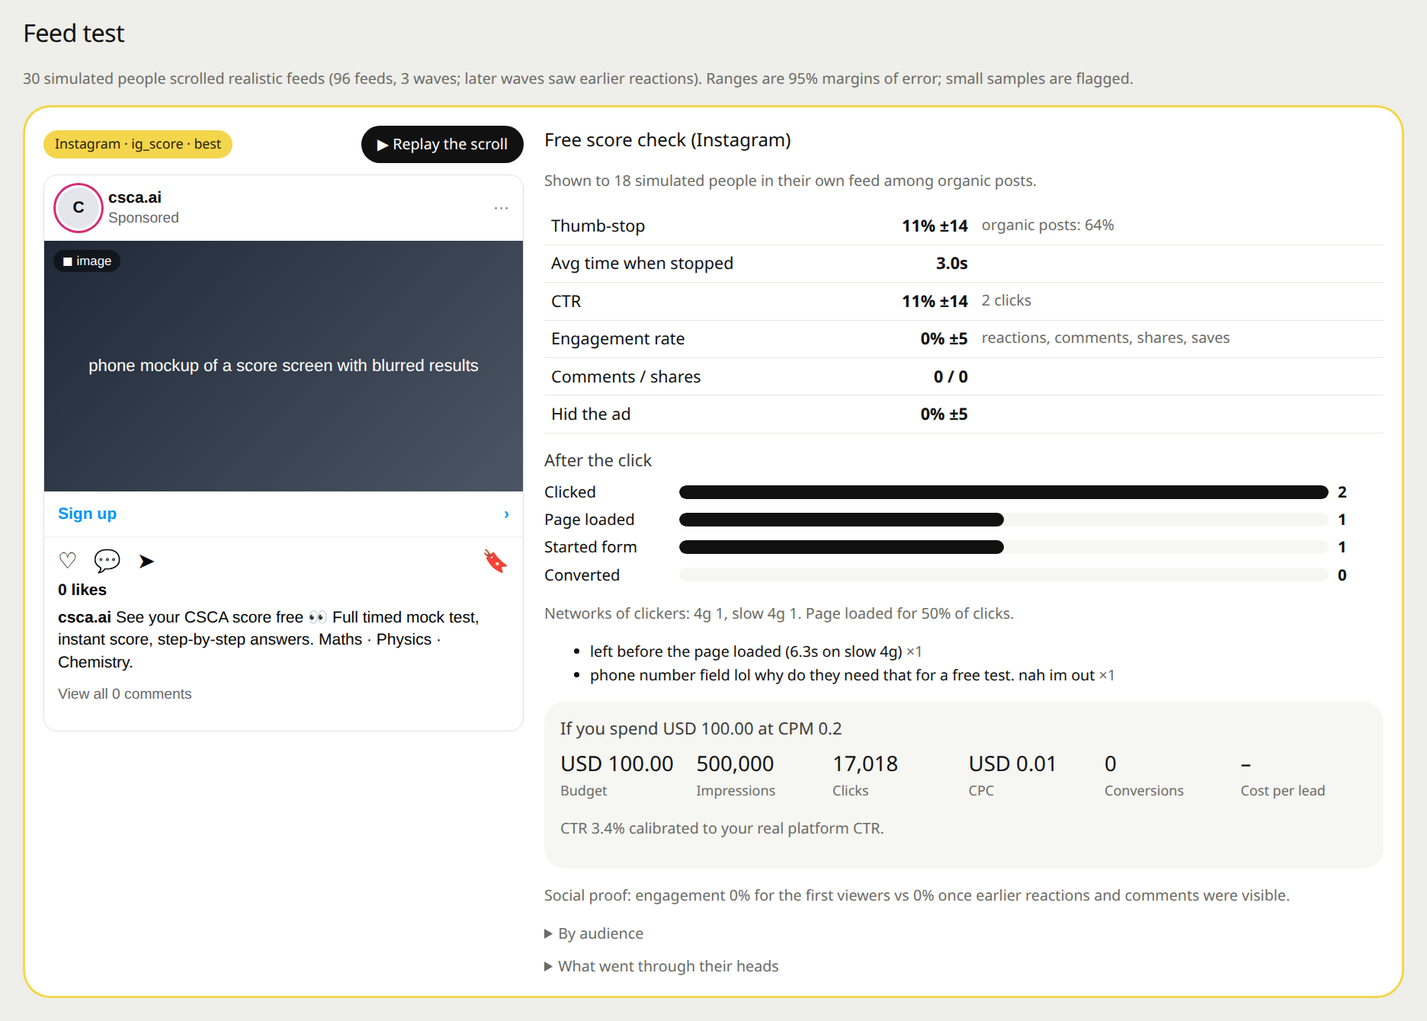
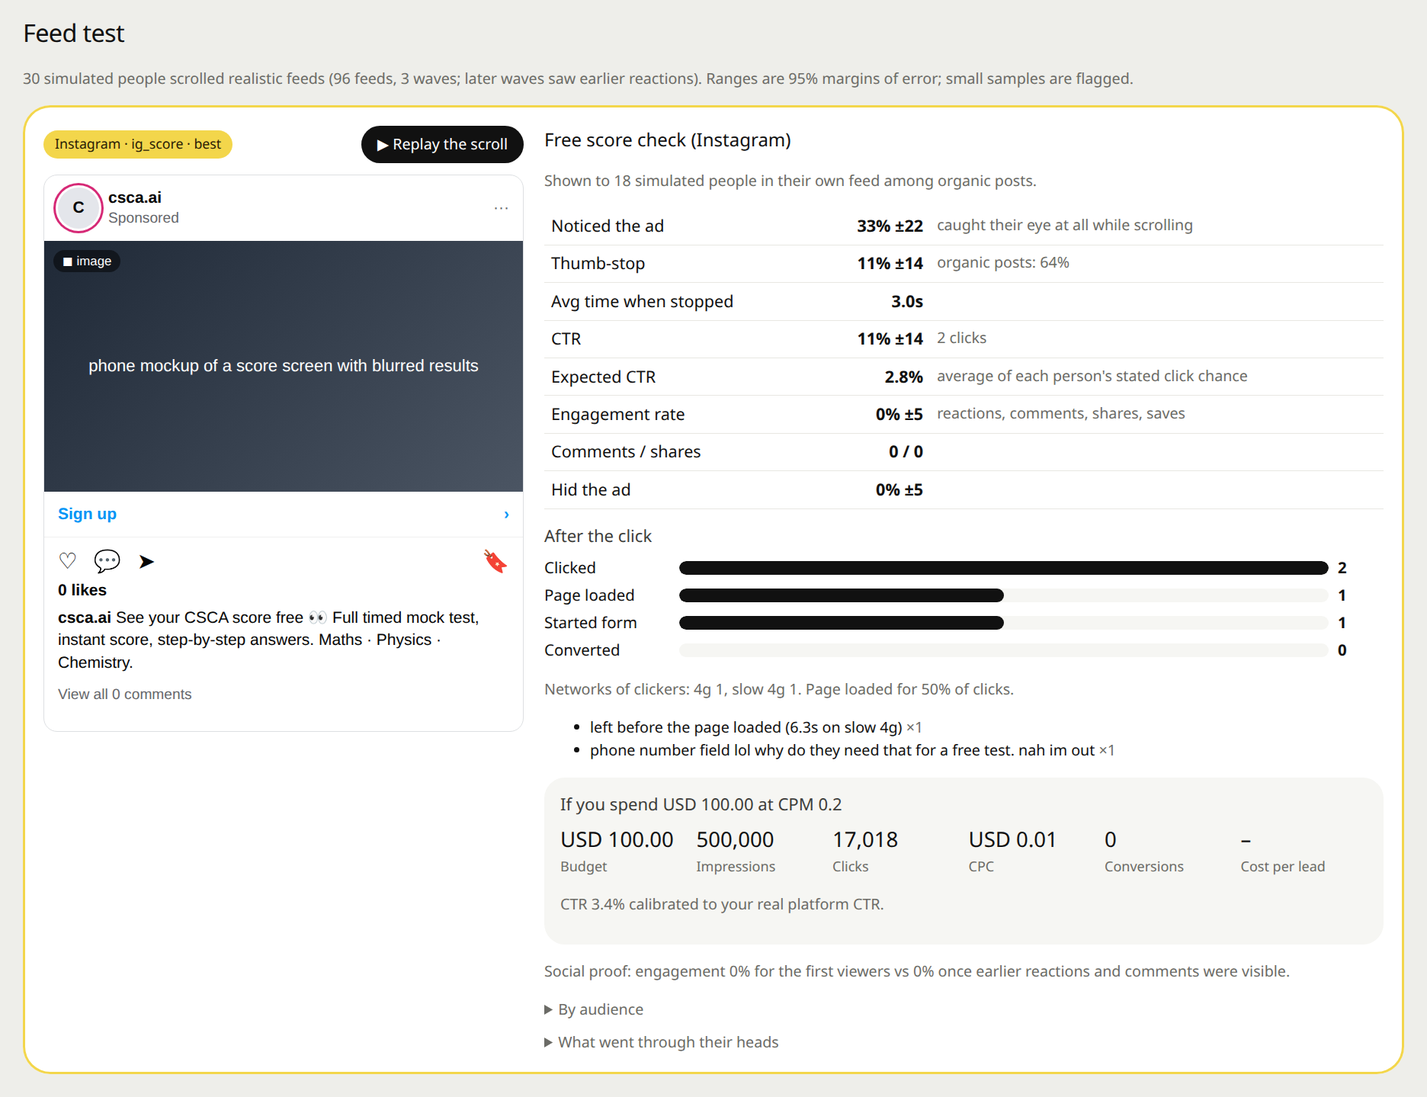
Real run fixes, README screenshots from a real CSCA run
- wait treats 'every platform finished, none running' as done (the process
  stays up for interviews, so runner_status stays 'running')
- analysts: concise output, 4k tokens, retry once on cut-off JSON
- with no firm yes, verdicts rank audiences and messages by maybes and
  reaction and call the split test inconclusive; the survey signal and the
  playbook priority count a maybe as partial interest; best message per
  audience comes from the assigned message in split tests
- decision list layout fix
- README: screenshots from a real run (decision, feed test, playbook,
  audiences, analyst panel, objections, people), all-in-one and MCP docs
- skill: all-in-one section and decision card

diff --git a/backend/claude_cli/marketing.py b/backend/claude_cli/marketing.py
@@ -288,7 +288,11 @@ def _group_stats(rows: List[Dict[str, Any]]) -> Dict[str, Any]:
     promoters = sum(1 for x in rec if x >= 9)
     detractors = sum(1 for x in rec if x <= 6)
     objections = Counter(r.get("objection_type") for r in rows if r.get("objection_type") not in (None, "none"))
-    msgs = Counter(r.get("best_message") for r in rows if r.get("best_message"))
+    # best message: among people at least open to it (yes counts double), the message they saw or picked
+    msgs = Counter()
+    for r in rows:
+        if r.get("message_key") and r.get("would_convert") in (YES, MAYBE):
+            msgs[r["message_key"]] += 2 if r.get("would_convert") == YES else 1
     return {
         "n": n,
         "interest": _avg([r.get("interest") for r in rows]),
@@ -327,6 +331,12 @@ def analyze(bundle: Dict[str, Any]) -> Dict[str, Any]:
                      "communities": m.get("communities") or [], "age_band": age_band(m.get("age")),
                      "gender": m.get("gender"), "acted": acted.get(aid, 0)})
 
+    split_mode = survey.get("mode") == "split"
+    for r in rows:
+        if split_mode and r.get("assigned") is not None:
+            r["message_key"] = f"#{int(r['assigned']) + 1}"
+        elif r.get("best_message"):
+            r["message_key"] = r["best_message"]
     out: Dict[str, Any] = {
         "has_survey": bool(rows), "people": len(people),
         "engaged": sum(1 for a in people if acted.get(a)),
@@ -416,7 +426,8 @@ def analyze(bundle: Dict[str, Any]) -> Dict[str, Any]:
             grid[r["segment"]][r["message_key"]].append(r)
     out["message_grid"] = {
         "messages": [m["key"] for m in out["messages_ranked"]],
-        "rows": [{"segment": seg_, "cells": {k: {"n": len(v), "convert_yes": _pct(sum(1 for r in v if r.get("would_convert") == YES), len(v))}
+        "rows": [{"segment": seg_, "cells": {k: {"n": len(v), "convert_yes": _pct(sum(1 for r in v if r.get("would_convert") == YES), len(v)),
+                                              "convert_maybe": _pct(sum(1 for r in v if r.get("would_convert") == MAYBE), len(v))}
                                               for k, v in cells.items()}}
                  for seg_, cells in sorted(grid.items())],
     } if grid else None
@@ -503,13 +514,15 @@ def playbook(a: Dict[str, Any], rows: List[Dict[str, Any]]) -> List[Dict[str, An
         cells = grid.get(s["key"]) or {}
         lead = None
         if cells:
-            lead = max(cells.items(), key=lambda kv: ((kv[1]["convert_yes"] or 0), kv[1]["n"]))[0]
+            lead = max(cells.items(), key=lambda kv: ((kv[1]["convert_yes"] or 0), (kv[1].get("convert_maybe") or 0), kv[1]["n"]))[0]
         fixes = Counter(r["would_change_mind"].strip().rstrip(".") for r in seg_rows
                         if r.get("would_convert") != YES and r.get("would_change_mind"))
         hooks = [r.get("quote") for r in seg_rows if r.get("would_convert") == YES and r.get("quote")]
+        score = (s["convert_yes"] or 0) + 0.3 * (s["convert_maybe"] or 0)      # a maybe is partial interest
         plays.append({
-            "segment": s["key"], "n": s["n"], "convert_yes": s["convert_yes"], "interest": s["interest"],
-            "priority": "high" if (s["convert_yes"] or 0) >= 40 else "medium" if (s["convert_yes"] or 0) >= 20 else "low",
+            "segment": s["key"], "n": s["n"], "convert_yes": s["convert_yes"], "convert_maybe": s["convert_maybe"],
+            "interest": s["interest"], "score": round(score, 1),
+            "priority": "high" if score >= 30 else "medium" if score >= 12 else "low",
             "lead_with": _message_label(lead, a.get("messages") or []) if lead else None,
             "preempt": OBJECTION_LABELS.get(s.get("top_objection")) if s.get("top_objection") else None,
             "answer_with": fixes.most_common(1)[0][0] if fixes else None,
@@ -517,7 +530,7 @@ def playbook(a: Dict[str, Any], rows: List[Dict[str, Any]]) -> List[Dict[str, An
             "proof_quote": hooks[0] if hooks else None,
         })
     order = {"high": 0, "medium": 1, "low": 2}
-    return sorted(plays, key=lambda p: (order[p["priority"]], -(p["convert_yes"] or 0)))
+    return sorted(plays, key=lambda p: (order[p["priority"]], -p["score"]))
 
 
 def _goal_verb(goal: Optional[str]) -> str:
@@ -542,7 +555,13 @@ def verdicts(a: Dict[str, Any]) -> List[str]:
         out.append(f"{_fmt_pct(o.get('convert_yes'))} of the people surveyed say they would "
                    f"{_goal_verb(a.get('goal'))}, and {_fmt_pct(o.get('convert_maybe'))} more are on the fence.")
     segs = [s for s in a.get("by_segment") or [] if s["n"] >= 2]
-    if len(segs) >= 2:
+    no_yes = all(not (s.get("convert_yes") or 0) for s in segs)
+    if len(segs) >= 2 and no_yes:
+        ranked = sorted(segs, key=lambda s: (-(s.get("convert_maybe") or 0), -(s.get("interest") or 0)))
+        best, worst = ranked[0], ranked[-1]
+        out.append(f"Nobody committed yet. Most open audience: {best['key']} ({_fmt_pct(best['convert_maybe'])} maybe, "
+                   f"interest {best['interest']}/10). Least open: {worst['key']} ({_fmt_pct(worst['convert_maybe'])} maybe).")
+    elif len(segs) >= 2:
         best, worst = segs[0], segs[-1]
         out.append(f"Best audience: {best['key']} ({_fmt_pct(best['convert_yes'])} would convert, "
                    f"interest {best['interest']}/10). Weakest: {worst['key']} ({_fmt_pct(worst['convert_yes'])}).")
@@ -551,7 +570,11 @@ def verdicts(a: Dict[str, Any]) -> List[str]:
         top = objs[0]
         out.append(f"Biggest blocker: {top['label'].lower()}, raised by {_fmt_pct(top['share'])} of people.")
     msgs = a.get("messages_ranked") or []
-    if msgs and a.get("split_test"):
+    if msgs and a.get("split_test") and not any(x.get("convert_yes") for x in msgs):
+        m = max(msgs, key=lambda x: ((x.get("reaction") or 0), (x.get("convert_maybe") or 0)))
+        out.append(f"No message produced a firm yes. Best reaction: {trunc_text(m['label'], 90)} "
+                   f"({m.get('reaction')}/10, {_fmt_pct(m.get('convert_maybe'))} maybe). Treat the split test as inconclusive.")
+    elif msgs and a.get("split_test"):
         m = msgs[0]
         tail = ""
         if len(msgs) > 1:
@@ -875,7 +898,7 @@ def render_sections(a: Dict[str, Any]) -> List[Tuple[str, str, str]]:
         cards = "".join(
             f'<div class="play p-{p["priority"]}"><div class="play-h"><strong>{_e(p["segment"])}</strong>'
             f'<span class="pill {"accent" if p["priority"] == "high" else "mint" if p["priority"] == "medium" else ""}">'
-            f'{_e(p["priority"])} priority · {_fmt_pct(p["convert_yes"])}</span></div><dl>'
+            f'{_e(p["priority"])} priority · {_fmt_pct(p["convert_yes"])} yes · {_fmt_pct(p.get("convert_maybe"))} maybe</span></div><dl>'
             + (f'<dt>Lead with</dt><dd>{_e(trunc_text(p["lead_with"], 160))}</dd>' if p.get("lead_with") else "")
             + (f'<dt>Pre-empt</dt><dd>{_e(p["preempt"])}</dd>' if p.get("preempt") else "")
             + (f'<dt>Answer with</dt><dd>{_e(trunc_text(p["answer_with"], 200))}</dd>' if p.get("answer_with") else "")

diff --git a/backend/app/services/analyst_panel.py b/backend/app/services/analyst_panel.py
@@ -90,6 +90,7 @@ def _prompt(lens: str, focus: str, brief: str, material: Dict[str, Any]) -> str:
         f"What the client wants to decide:\n{brief or 'Which audience and message to invest in, and what is blocking conversion.'}\n\n"
         + (f"Background:\n{material['context']}\n\n" if material.get("context") else "")
         + _render(material) + "\n\n"
+        "Be concise: every list item under 20 words, at most 5 themes, 4 objections, 4 opportunities, 3 risks.\n"
         "Return JSON: {\"headline\": \"your single most important conclusion\", \"sentiment\": -100..100, "
         "\"purchase_intent_signal\": 0-10, \"best_audience\": \"segment name or 'unclear'\", "
         "\"best_message\": \"which message/ad/angle wins, or 'unclear'\", "
@@ -189,16 +190,22 @@ def run_panel(client, model: str, material: Dict[str, Any], brief: str = "", n: 
 
     def one(i_lens):
         i, (lens, focus) = i_lens
-        try:
-            resp = create_chat_completion(client, model=model, temperature=0.6, max_tokens=2500,
-                                          messages=[{"role": "system", "content": SYSTEM},
-                                                    {"role": "user", "content": _prompt(lens, focus, brief, material)}])
-            data = parse_json_block(extract_chat_completion_text(resp))
-            result = _clean(data if isinstance(data, dict) else {})
-            err = None
-        except Exception as e:  # noqa: BLE001 - one analyst failing is reported, not fatal
-            logger.warning(f"analyst {lens} failed: {e}")
-            result, err = None, str(e)[:200]
+        result, err = None, None
+        prompt = _prompt(lens, focus, brief, material)
+        for attempt in range(2):
+            try:
+                extra = "" if attempt == 0 else (
+                    "\n\nYour previous answer was cut off. Answer again in under 350 words: at most 4 themes, "
+                    "3 objections, 3 opportunities and 2 risks, each under 20 words.")
+                resp = create_chat_completion(client, model=model, temperature=0.6, max_tokens=4000,
+                                              messages=[{"role": "system", "content": SYSTEM},
+                                                        {"role": "user", "content": prompt + extra}])
+                data = parse_json_block(extract_chat_completion_text(resp))
+                result, err = _clean(data if isinstance(data, dict) else {}), None
+                break
+            except Exception as e:  # noqa: BLE001 - one analyst failing is reported, not fatal
+                logger.warning(f"analyst {lens} failed (attempt {attempt + 1}): {e}")
+                err = str(e)[:200]
         done[0] += 1
         if progress:
             progress(done[0], len(lenses))

diff --git a/backend/claude_cli/feed_view.py b/backend/claude_cli/feed_view.py
@@ -528,7 +528,8 @@ def decision(bundle: Dict[str, Any], mk: Dict[str, Any]) -> Optional[Dict[str, A
     o = mk.get("overall") or {}
     if mk.get("has_survey") and o.get("convert_yes") is not None:
         v = o["convert_yes"]
-        signals.append({"name": "Buyer survey", "vote": "go" if v >= 40 else "iterate" if v >= 20 else "no-go",
+        score = v + 0.3 * (o.get("convert_maybe") or 0)          # a "maybe" is worth a fraction of a "yes"
+        signals.append({"name": "Buyer survey", "vote": "go" if v >= 30 or score >= 40 else "iterate" if score >= 8 else "no-go",
                         "detail": f"{v:.0f}% would convert (+{o.get('convert_maybe') or 0:.0f}% maybe), n={mk.get('answered')}",
                         "n": mk.get("answered") or 0})
     ft = (bundle.get("feed_test") or {}).get("summary") or {}
@@ -579,8 +580,8 @@ def decision_section(d: Optional[Dict[str, Any]]) -> Optional[Tuple[str, str, st
     if not d:
         return None
     color = {"go": "mint", "iterate": "accent", "no-go": "orchid"}[d["decision"]]
-    rows = "".join(f'<li><span class="pill {"mint" if s["vote"] == "go" else "accent" if s["vote"] == "iterate" else "orchid"}">'
-                   f'{_e(s["vote"])}</span> <b>{_e(s["name"])}</b>: {_e(s["detail"])}</li>' for s in d["signals"])
+    rows = "".join(f'<li><span><span class="pill {"mint" if s["vote"] == "go" else "accent" if s["vote"] == "iterate" else "orchid"}">'
+                   f'{_e(s["vote"])}</span> <b>{_e(s["name"])}</b>: {_e(s["detail"])}</span></li>' for s in d["signals"])
     fixes = "".join(f"<li>{_e(f)}</li>" for f in d.get("fixes") or [])
     return ("decision", "Decision", f'<div class="panel dec"><div class="eyebrow">Decision · {_e(d["confidence"])} confidence</div>'
             f'<div class="headline"><span class="pill {color}" style="font-size:1.1rem;padding:6px 14px;margin-right:10px">'

diff --git a/backend/claude_cli/mirofish.py b/backend/claude_cli/mirofish.py
@@ -274,9 +274,18 @@ def wait_run(c: Client, simulation_id: str, timeout: float, interval: float) -> 
                 f"({s.get('progress_percent', 0)}%) actions={s.get('total_actions_count', 0)} "
                 f"[tw r{s.get('twitter_current_round', 0)} / rd r{s.get('reddit_current_round', 0)}]")
     return poll(lambda: c.data("GET", f"/api/simulation/{simulation_id}/run-status"),
-                lambda s: s.get("runner_status") in ("completed", "stopped"),
+                rounds_done,
                 lambda s: s.get("runner_status") == "failed",
                 describe, "run", interval, timeout)
+
+
+def rounds_done(s: Dict[str, Any]) -> bool:
+    """Finished when the runner says so, or when every platform logged simulation_end and none is running:
+    the process stays up afterwards on purpose (interview mode), so runner_status can stay 'running'."""
+    if s.get("runner_status") in ("completed", "stopped"):
+        return True
+    done = [s.get("twitter_completed"), s.get("reddit_completed")]
+    return any(done) and not s.get("twitter_running") and not s.get("reddit_running")
 
 
 def step_report(c: Client, simulation_id: str, force: bool = False, wait: bool = True,

diff --git a/backend/claude_cli/tests/test_allinone.py b/backend/claude_cli/tests/test_allinone.py
@@ -57,6 +57,16 @@ class GraphOverlayTest(unittest.TestCase):
         self.assertEqual(feed_view.augment_graph(graph, {}), graph)
 
 
+class RoundsDoneTest(unittest.TestCase):
+    def test_interview_mode_counts_as_done(self):
+        import mirofish
+        self.assertTrue(mirofish.rounds_done({"runner_status": "running", "twitter_completed": True,
+                                              "reddit_completed": True, "twitter_running": False, "reddit_running": False}))
+        self.assertFalse(mirofish.rounds_done({"runner_status": "running", "twitter_completed": True,
+                                               "reddit_completed": False, "reddit_running": True}))
+        self.assertTrue(mirofish.rounds_done({"runner_status": "completed"}))
+
+
 class MCPServerTest(unittest.TestCase):
     def test_protocol_and_tools(self):
         home = tempfile.mkdtemp()

diff --git a/README.md b/README.md
@@ -25,6 +25,7 @@ Runs on Claude · works as a Claude Code skill · one offline HTML dashboard · 
 | Can we trust the simulation for this market? | Rank correlation and winner match against real ad results | **`backtest`** |
 | What do the objections sound like, and how do we answer them? | Objections by audience in the buyers' own words, "what would change my mind", a sales playbook per audience | **Survey + playbook + interviews** |
 | Does a second opinion agree? | Independent analysts (performance, brand, sales, psychology, data, local market) each read the anonymized evidence alone | **Analyst panel** |
+| So, launch it or not? | **Go / iterate / no-go**, with confidence, the signal behind each vote and what to fix first | **Decision card** combining every test |
 
 ## See it
 
@@ -35,11 +36,20 @@ Runs on Claude · works as a Claude Code skill · one offline HTML dashboard · 
 </tr>
 <tr>
 <td><img src="docs/images/audiences.png" alt="Would-convert chart by segment with margins of error"/><br><b>Audiences.</b> Would-convert, maybe and no by segment, country, community, age and gender, with 95% margins and small-sample flags.</td>
+<td><img src="docs/images/analysts.png" alt="Independent analyst panel with themes and multilingual evidence"/><br><b>Analyst panel.</b> Five analysts work alone on the anonymized evidence. Themes are backed by quotes, here in Bangla, Nepali and Bahasa.</td>
+</tr>
+<tr>
+<td><img src="docs/images/objections.png" alt="Objections chart and quotes"/><br><b>Objections.</b> What stops people, how often, in their own words, and what would change their mind.</td>
 <td><img src="docs/images/personas.png" alt="Table of simulated people with names, ages, countries and roles"/><br><b>People.</b> Every simulated person: realistic local name, age, city, upbringing, education, income, thinking style, communities.</td>
 </tr>
 </table>
 
-Screenshots are from a real run: a free exam-prep offer tested on students and parents in Bangladesh, Nepal and Indonesia, seeded with that brand's real Meta ad results.
+**From a real run.** A free exam-prep offer (CSCA.ai) was tested on 30 students and parents in Bangladesh, Nepal and Indonesia, seeded with the brand's real Meta ad results:
+- **Decision:** iterate, low confidence. All three signals agreed.
+- **Survey:** nobody committed and 48% said maybe.
+- **Biggest blocker:** trust and scam fears, raised by 69%.
+- **Analysts:** all five said iterate, with an average success chance of 28%.
+- **Landing page:** the simulated drop-offs matched the real account. A slow page lost people, an English-only page lost Indonesian students, and a phone-number field read as a scam signal.
 
 ## How it works
 
@@ -78,6 +88,35 @@ In Claude Code:
 Then just ask, for example: *"Test these three Facebook ads on parents in Jakarta and Surabaya; here is our landing page and last month's Ads Manager export."* The skill downloads the engine, sets it up, asks for your Anthropic key, plans personas, stops to show them to you before spending, runs the tests and opens the live dashboard. It also pulls real data from tools you have connected (Meta Ads, Google Ads, Semrush, web search, your CRM exports).
 
 You can also copy `plugin/skills/market-mirror/` into `~/.claude/skills/`. The skill needs a shell, `git` and [`uv`](https://docs.astral.sh/uv/).
+
+### As agent tools (MCP)
+
+The plugin also starts an MCP server, so Claude Desktop, Claude Code or any MCP client gets these tools: `doctor`, `setup`, `start_backend`, `market_test` (everything in one call), `job_status`, `results`, `list_runs`, `start_live`, `ads_import`, `backtest` and `cli`. To add it by hand:
+
+```bash
+claude mcp add market-mirror -- python3 /path/to/market-mirror/plugin/skills/market-mirror/scripts/mcp_server.py
+```
+
+### One command for everything
+
+```json
+{
+  "name": "acme_launch", "title": "Acme Pro launch test",
+  "seeds": ["brief.md", "past_ads.md", "landing_page.md"],
+  "requirement": "question.txt",
+  "personas": "personas.json",
+  "creatives": "creatives.json",
+  "rounds": 3,
+  "survey": {"offer": "Acme Pro trial", "goal": "start a free trial", "messages": "messages.txt", "split": true, "pricing": "USD"},
+  "panel": {"analysts": 5, "brief": "Which audience and message get the budget, and should we launch?"},
+  "approve_spend": false
+}
+```
+
+```bash
+mm market-test scenarios/acme/market_test.json   # 1st run: builds the people, then stops so you can check them
+# add "simulation_id" from the output and "approve_spend": true, run again: feed test, rounds, survey, panel, dashboard
+```
 
 ### By hand
 
@@ -170,7 +209,7 @@ Platforms: `facebook`, `instagram`, `reddit`, `tiktok`, `linkedin`, `x`. Several
 
 ## The dashboard
 
-Sections, in order: **Results** (plain-language verdicts and headline numbers), **Playbook**, **Feed test** (post mocks with scroll replay, metrics, landing funnel, projections and ROI), **Funnel**, **Audiences**, **Objections**, **Messages** (split-test ranking and an audience × message heatmap), **Pricing** (Van Westendorp curves), **Voices** (quotes from would-buy and would-not-buy people), **Analysts**, **Backtest**, **Downloads**, then the analyst report, what people posted, the people themselves, activity over time, the knowledge graph and run details.
+Sections, in order: **Decision** (go / iterate / no-go), **Results** (plain-language verdicts and headline numbers), **Playbook**, **Feed test** (post mocks with scroll replay, metrics, landing funnel, projections and ROI), **Funnel**, **Audiences**, **Objections**, **Messages** (split-test ranking and an audience × message heatmap), **Pricing** (Van Westendorp curves), **Voices** (quotes from would-buy and would-not-buy people), **Analysts**, **Backtest**, **Downloads**, then the analyst report, what people posted, the people themselves, activity over time, the knowledge graph (documents, people, segments, communities and countries, all connected) and run details.
 
 **Downloads:** the dashboard (HTML), print or save as PDF, the analyst report (Markdown), every survey answer and every feed session (CSV), results by audience and creative metrics with ROI (CSV), and all key numbers (JSON). The same files are written next to `dashboard.html`.
 
@@ -212,6 +251,8 @@ Always stop after `prepare` and look at the people before spending on the rest.
 | CLI | `backend/claude_cli/mirofish.py`, `market_cli.py` |
 | Survey analysis, playbook, pricing | `backend/claude_cli/marketing.py` |
 | Dashboard | `backend/claude_cli/exporter.py`, `feed_view.py`, `vendor/echarts.min.js` |
+| All-in-one command | `mirofish.py market-test` |
+| MCP server (agent tools) | `plugin/skills/market-mirror/scripts/mcp_server.py` |
 | Claude skill | `plugin/skills/market-mirror/` |
 
 Claude runs through Anthropic's OpenAI-compatible endpoint. Memory is a free local knowledge graph (SQLite with BM25 and local multilingual embeddings), so no Zep account is needed. `CLAUDE.md` is the full operating guide for agents, and `HANDOFF.md` lists known gaps. Run the tests with `cd backend && uv run --no-sync python -m pytest tests claude_cli/tests -q`.

diff --git a/plugin/skills/market-mirror/SKILL.md b/plugin/skills/market-mirror/SKILL.md
@@ -58,7 +58,13 @@ Write `<scenario>/personas.json`. Each segment gets real people with ages spread
 
 No spec? `--auto-personas 30` lets Claude plan segments and communities from the question. Up to 500 per segment and 2,000 in total are allowed; start with 20-40 and scale once the setup is right. `diversity` (top level or per segment) overrides the trait lists.
 
-## 4. Pick a recipe
+## 4. All in one (fastest)
+
+Write `<scenario>/market_test.json` (keys: name, title, seeds, requirement, personas or auto_personas, creatives, rounds, survey {offer, goal, messages, split, pricing}, panel {analysts, brief}, report, approve_spend) and run `bash "$MM" cli market-test <scenario>/market_test.json`. The first run stops after creating the people and prints them: show them to the user. Then add the printed `simulation_id` and `"approve_spend": true` and run again. If the MCP tools are available (`market_test`, `job_status`, `results`), use those instead of the shell.
+
+The dashboard opens with a **go / iterate / no-go decision** combining every signal. Report it with its confidence and the "fix first" list.
+
+## 5. Pick a recipe
 
 Run stage one for every recipe, then show the personas (`cli profiles --simulation <id> --brief`) before spending more:
 
@@ -96,13 +102,13 @@ Then `bash "$MM" cli feedtest --simulation <id> --creatives @<scenario>/creative
 
 **H. Second opinion.** `cli panel --simulation <id> --analysts 5 --brief "what we need to decide"`: independent analysts (performance marketer, brand strategist, sales lead, psychologist, sceptical data analyst, ...) each read the anonymized posts, comments, feed reactions and survey answers alone. Report the consensus and where they disagree.
 
-## 5. Show the results
+## 6. Show the results
 
 - Live: the browser pane at `http://127.0.0.1:5050/` updates as steps finish.
 - Final: `<engine>/mirofish_runs/<name>/dashboard.html` (one offline file). Publish it as an Artifact if available, otherwise send the file. Its Downloads section exports the report (Markdown), every survey answer and feed session (CSV), metrics (JSON) and print-to-PDF; the same files sit next to it.
 - In chat: lead with the decision (which audience, which message, what to fix first, expected cost per lead), then the evidence and its limits. Quote real comments from personas, labelled as simulated.
 
-## 6. Costs and cleanup
+## 7. Costs and cleanup
 
 Feed tests call Claude only for exposures that catch someone's eye (most do not), plus one call per click for the landing page. Rounds cost one call per active agent per round; surveys one per person; the panel one per analyst. `claude-haiku-4-5` is the cheap default; use a Sonnet model for final reports. `bash "$MM" stop` stops everything.
 
